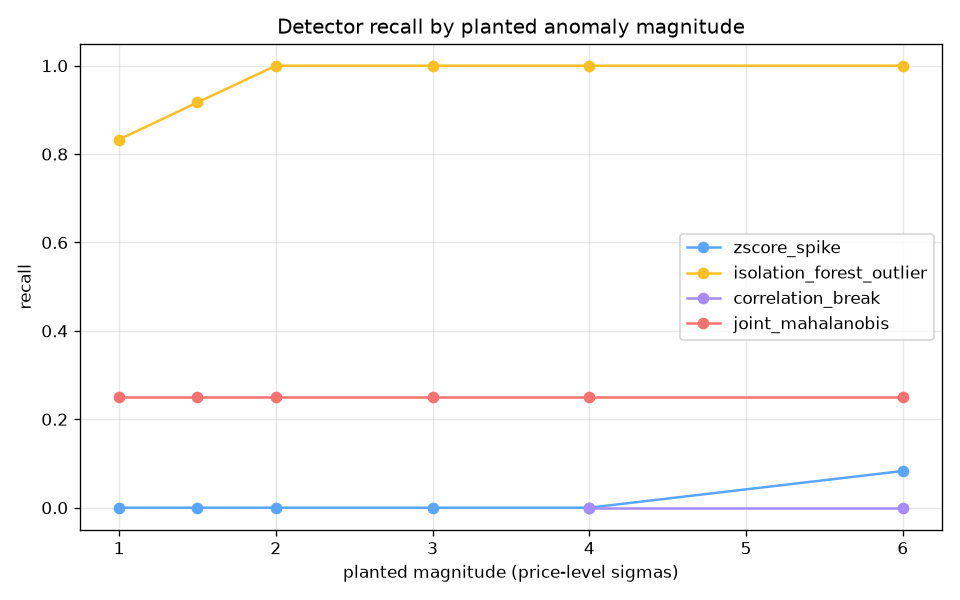
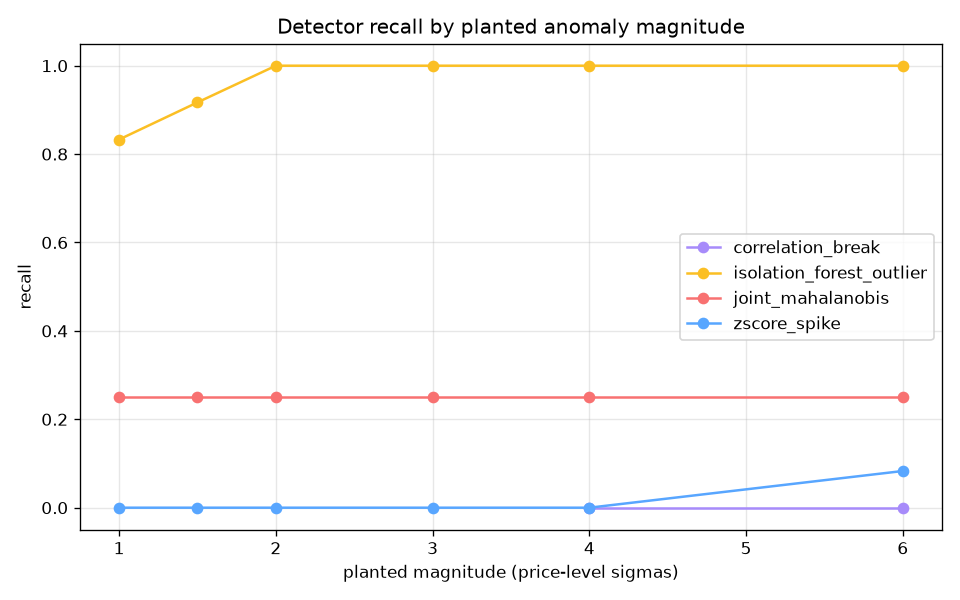
fix(feedback): joint detector attribution via single-source mapping
The precision breakdown's detector attribution (anomaly type ->
short label) existed as two independent copies — src/api/main.py and
src/precision.py — and neither knew about joint_mahalanobis, so any
human feedback on an anomaly the joint detector caught was attributed
to "unknown". The newest detector was exactly the one whose
real-world precision couldn't be tracked.

Root-cause fix, not a two-line patch:

- src/precision.py is now the SINGLE SOURCE OF TRUTH for
  _DETECTOR_KEYWORDS + detector_from_description (it already hosted
  them; its docstring claimed to merely "mirror" main.py — that
  mirroring was the drift mechanism). "joint_mahalanobis": "joint"
  added there.
- src/api/main.py's duplicate definitions removed; it imports
  detector_from_description from src.precision alongside
  compute_precision.
- Same drift risk closed in the two other places listing detector
  types by name: scripts/run_backtest_report.py now derives
  DETECTOR_TYPES (report rows) and its chart colors from the shared
  mapping, and src/backtest/__main__.py derives its silent-type
  accrual list from it. Adding a detector means adding one mapping
  entry — every surface follows.
- Deliberately untouched: anomaly_consumer.FLAG_BY_TYPE (maps types
  to flag COLUMNS, joint has none) and dashboard mock data.

Regression tests: a joint_mahalanobis feedback row must attribute to
"joint" (not "unknown") in compute_precision's by_detector output —
[…]

Changed region(s): [[0.7188, 0.48, 0.9375, 0.57], [0.7188, 0.39, 0.9375, 0.45], [0.5938, 0.84, 0.625, 0.87]]

diff --git a/tests/test_anomaly_feedback.py b/tests/test_anomaly_feedback.py
@@ -41,6 +41,45 @@ def test_detector_from_description_unknown():
     assert detector_from_description("some new detector not yet keyed") == "unknown"
 
 
+def test_detector_from_description_joint():
+    """THE regression test for the original gap: the multivariate joint
+    detector's feedback was attributed to 'unknown' because the shared
+    attribution mapping lacked its anomaly type."""
+    description = (
+        "Tick-level joint_mahalanobis (joint_mahalanobis detector), "
+        "d2/dim=6.99 detected on ^GSPC — critical severity"
+    )
+    assert detector_from_description(description) == "joint"
+
+
+def test_attribution_mapping_covers_every_known_detector_type():
+    from src.precision import _DETECTOR_KEYWORDS
+
+    assert _DETECTOR_KEYWORDS == {
+        "zscore_spike": "zscore",
+        "isolation_forest_outlier": "iforest",
+        "correlation_break": "correlation",
+        "joint_mahalanobis": "joint",
+    }
+
+
+def test_compute_precision_attributes_joint_feedback_to_joint():
+    labels = [
+        _label(1, "confirmed", days_ago=1,
+               description="... joint_mahalanobis ..."),
+        _label(2, "false_positive", days_ago=1,
+               description="... joint_mahalanobis ..."),
+        _label(3, "confirmed", days_ago=1,
+               description="... zscore_spike ..."),
+    ]
+    r = compute_precision(labels, window_days=30)
+    by_det = {d["detector"]: d for d in r["by_detector"]}
+    assert "unknown" not in by_det
+    assert by_det["joint"]["labeled"] == 2
+    assert by_det["joint"]["precision"] == 0.5
+    assert by_det["zscore"]["labeled"] == 1
+
+
 # ---------------------------------------------------------------------------
 # compute_precision — the math that drives both the API endpoint and the
 # livesite publisher. These tests cover empty, simple, deduplication, and

diff --git a/scripts/run_backtest_report.py b/scripts/run_backtest_report.py
@@ -42,6 +42,7 @@ from src.detection.cross_asset import CrossAssetCorrelationDetector  # noqa: E40
 from src.detection.isolation_forest import IsolationForestDetector  # noqa: E402
 from src.detection.joint import MultivariateJointDetector  # noqa: E402
 from src.detection.pipeline import DetectionPipeline  # noqa: E402
+from src.precision import _DETECTOR_KEYWORDS  # noqa: E402
 from src.detection.zscore import ZScoreDetector  # noqa: E402
 
 logging.basicConfig(level=logging.WARNING)
@@ -64,12 +65,9 @@ SINGLE_EVENTS_PER_TRIAL = 6
 JOINT_DEVIATIONS = [1.0, 1.5, 2.0, 3.0]                # return-sigmas, opposite
 JOINT_SEEDS = [401, 502, 603]
 
-DETECTOR_TYPES = [
-    "zscore_spike",
-    "isolation_forest_outlier",
-    "correlation_break",
-    "joint_mahalanobis",
-]
+# Derived from the shared attribution mapping so a new detector
+# automatically appears in the report (single source of truth).
+DETECTOR_TYPES = sorted(_DETECTOR_KEYWORDS.keys())
 TARGET_SYMBOL = PANEL_SYMBOLS[-1]   # joint events fire on the last column
 
 
@@ -350,11 +348,16 @@ def generate_chart(single_report, out_path) -> None:
     import matplotlib.pyplot as plt
 
     fig, ax = plt.subplots(figsize=(8, 5))
+    palette = {
+        "zscore": "#58a6ff",
+        "iforest": "#fbbf24",
+        "correlation": "#a78bfa",
+        "joint": "#f87171",
+    }
+    default = "#8b98a5"
     colors = {
-        "zscore_spike": "#58a6ff",
-        "isolation_forest_outlier": "#fbbf24",
-        "correlation_break": "#a78bfa",
-        "joint_mahalanobis": "#f87171",
+        det: palette.get(_DETECTOR_KEYWORDS.get(det, ""), default)
+        for det in DETECTOR_TYPES
     }
     for det in DETECTOR_TYPES:
         xs, ys = [], []

diff --git a/src/api/main.py b/src/api/main.py
@@ -38,6 +38,7 @@ from src.api.models import (
     HealthResponse,
     MetaResponse,
 )
+from src.precision import compute_precision, detector_from_description
 
 load_dotenv()
 
@@ -425,24 +426,8 @@ async def get_anomalies_by_symbol(
 # Anomaly feedback + precision
 # ---------------------------------------------------------------------------
 
-# Mapping from the live anomaly_events.description prefix to the
-# detector that fired it. The deterministic nature of the description
-# makes this robust to changes elsewhere — we just look for which
-# keyword the description contains.
-_DETECTOR_KEYWORDS: dict[str, str] = {
-    "zscore_spike": "zscore",
-    "isolation_forest_outlier": "iforest",
-    "correlation_break": "correlation",
-}
-
-
-def _detector_from_description(description: Optional[str]) -> str:
-    if not description:
-        return "unknown"
-    for keyword, label in _DETECTOR_KEYWORDS.items():
-        if keyword in description:
-            return label
-    return "unknown"
+# Detector attribution lives in src/precision.py (single source of
+# truth, shared with the livesite publisher and the report generator).
 
 
 @app.post(
@@ -528,8 +513,6 @@ async def get_anomaly_precision(
 
     # Hand the joined rows to the same pure function the livesite
     # publisher uses, so both surfaces return identical numbers.
-    from src.precision import compute_precision
-
     result = compute_precision(
         (
             {

diff --git a/src/backtest/__main__.py b/src/backtest/__main__.py
@@ -29,6 +29,7 @@ from src.backtest.data import align_panel, fetch_symbol_history
 from src.backtest.harness import replay_panel, score_trial
 from src.backtest.inject import DEFAULT_WARMUP, plant_anomalies
 from src.detection.pipeline import DetectionPipeline
+from src.precision import _DETECTOR_KEYWORDS
 from src.universe import load_universe
 
 logger = logging.getLogger("backtest")
@@ -124,8 +125,7 @@ def run_planted_trials(panel, args):
                     st["lags"].append(s["median_lag"])
                 st["n_events"] += total_events
             # Detectors silent this trial still accrue event totals:
-            for t in ("zscore_spike", "isolation_forest_outlier",
-                      "correlation_break"):
+            for t in sorted(_DETECTOR_KEYWORDS):
                 if t not in seen_types:
                     stats[t]["n_events"] += total_events
             logger.info(

diff --git a/src/precision.py b/src/precision.py
@@ -7,7 +7,10 @@ FileStore entries). Same data shape in, same numbers out — the
 API path uses (event_id, label) pairs, the livesite path uses
 (symbol, timestamp) pairs; both eventually key on the same event.
 
-Detector attribution mirrors src/api/main.py's keyword logic.
+SINGLE SOURCE OF TRUTH for detector attribution: _DETECTOR_KEYWORDS
+and detector_from_description live here and are imported by
+src/api/main.py (and any other surface that needs them). When adding
+a detector, add its anomaly type here — nowhere else.
 """
 
 from collections import Counter, defaultdict
@@ -18,6 +21,7 @@ _DETECTOR_KEYWORDS: dict[str, str] = {
     "zscore_spike": "zscore",
     "isolation_forest_outlier": "iforest",
     "correlation_break": "correlation",
+    "joint_mahalanobis": "joint",
 }
 
 

diff --git a/docs/backtest_report.md b/docs/backtest_report.md
@@ -19,10 +19,10 @@ Alerts per 1000 evaluated symbol-ticks with no anomalies present.
 
 | detector | alerts/1000 ticks |
 |---|---|
-| zscore_spike | 30.0 |
-| isolation_forest_outlier | 100.0 |
 | correlation_break | 0.0 |
+| isolation_forest_outlier | 100.0 |
 | joint_mahalanobis | 0.0 |
+| zscore_spike | 30.0 |
 
 ## Single-symbol planted anomalies
 
@@ -30,41 +30,41 @@ Pooled over all magnitudes and seeds. Precision = matched/alerts, recall = match
 
 | detector | caught/planted | precision | recall | F1 | alerts fired |
 |---|---|---|---|---|---|
-| zscore_spike | 1/72 | 0.00 | 0.01 | 0.00 | 612 |
-| isolation_forest_outlier | 69/72 | 0.04 | 0.96 | 0.08 | 1739 |
 | correlation_break | 0/8 | 0.00 | 0.00 | — | 31 |
+| isolation_forest_outlier | 69/72 | 0.04 | 0.96 | 0.08 | 1739 |
 | joint_mahalanobis | 11/44 | 0.52 | 0.25 | 0.34 | 21 |
+| zscore_spike | 1/72 | 0.00 | 0.01 | 0.00 | 612 |
 
 ### Recall by planted magnitude (single-symbol)
 
-| magnitude (level-sigmas) | zscore_spike | isolation_forest_outlier | correlation_break | joint_mahalanobis |
+| magnitude (level-sigmas) | correlation_break | isolation_forest_outlier | joint_mahalanobis | zscore_spike |
 |---|---|---|---|---|
-| 1.0 | 0.00 | 0.83 | — | 0.25 |
-| 1.5 | 0.00 | 0.92 | — | 0.25 |
-| 2.0 | 0.00 | 1.00 | — | 0.25 |
-| 3.0 | 0.00 | 1.00 | — | 0.25 |
-| 4.0 | 0.00 | 1.00 | 0.00 | 0.25 |
-| 6.0 | 0.08 | 1.00 | 0.00 | 0.25 |
+| 1.0 | — | 0.83 | 0.25 | 0.00 |
+| 1.5 | — | 0.92 | 0.25 | 0.00 |
+| 2.0 | — | 1.00 | 0.25 | 0.00 |
+| 3.0 | — | 1.00 | 0.25 | 0.00 |
+| 4.0 | 0.00 | 1.00 | 0.25 | 0.00 |
+| 6.0 | 0.00 | 1.00 | 0.25 | 0.08 |
 
 ## Joint-flip planted anomalies (pair moves opposite)
 
 Per-asset moves are sub-threshold by construction — only the joint structure is anomalous. This isolates what `joint_mahalanobis` adds over single-asset detectors.
 
-| deviation (return-sigmas) | zscore_spike | isolation_forest_outlier | correlation_break | joint_mahalanobis |
+| deviation (return-sigmas) | correlation_break | isolation_forest_outlier | joint_mahalanobis | zscore_spike |
 |---|---|---|---|---|
-| 1.0 | 0.00 | 0.20 | — | — |
-| 1.5 | 0.00 | 0.20 | — | — |
-| 2.0 | 0.00 | 0.20 | — | 0.60 |
-| 3.0 | 0.00 | 0.20 | 0.00 | 0.60 |
+| 1.0 | — | 0.20 | — | 0.00 |
+| 1.5 | — | 0.20 | — | 0.00 |
+| 2.0 | — | 0.20 | 0.60 | 0.00 |
+| 3.0 | 0.00 | 0.20 | 0.60 | 0.00 |
 
 ## Pooled joint-flip metrics
 
 | detector | caught/planted | precision | recall | F1 | alerts fired |
 |---|---|---|---|---|---|
-| zscore_spike | 0/60 | 0.00 | 0.00 | — | 369 |
-| isolation_forest_outlier | 12/60 | 0.01 | 0.20 | 0.02 | 1155 |
 | correlation_break | 0/15 | 0.00 | 0.00 | — | 42 |
+| isolation_forest_outlier | 12/60 | 0.01 | 0.20 | 0.02 | 1155 |
 | joint_mahalanobis | 18/30 | 0.75 | 0.60 | 0.67 | 24 |
+| zscore_spike | 0/60 | 0.00 | 0.00 | — | 369 |
 
 ## Reading this report
 
